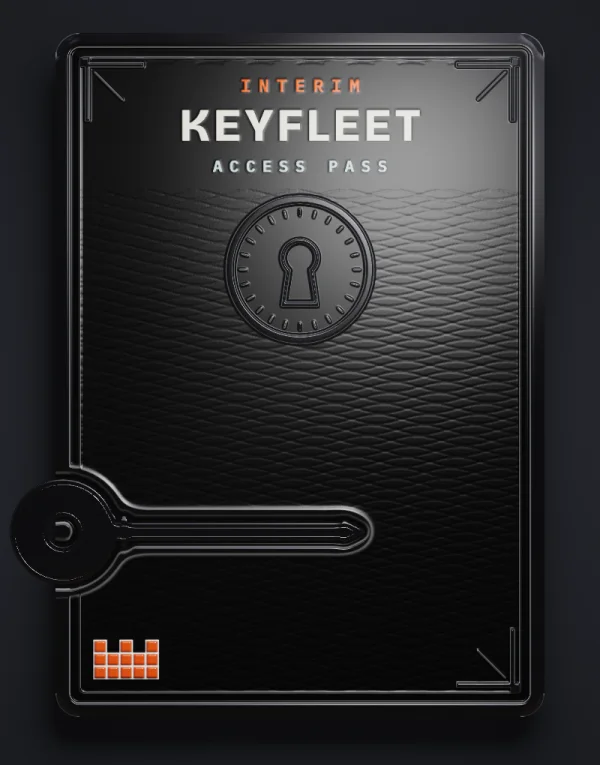
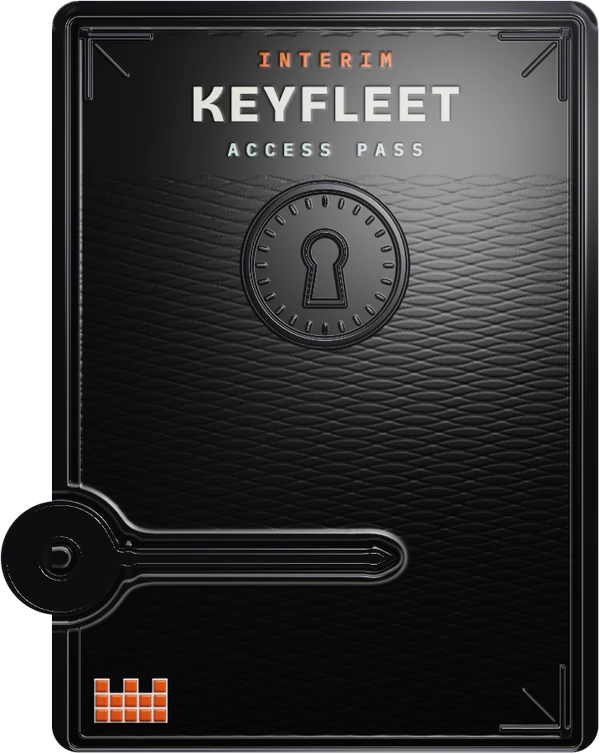
Show the homepage's next Key card without its dark backdrop
The card picture is cut out of its studio backdrop, so the hex field shows
around its rounded corners and the Key's head. The card panel's charcoal
fill and cut corners go, and the price tag moves beside the crown.

diff --git a/platform/assets/css/pages/home.css b/platform/assets/css/pages/home.css
@@ -54,17 +54,17 @@
   /* "Buy Next Key": the next Key's card over the button that names it and its
      price, and under them a line kept for the reason it can't be pressed. */
   .rl-buy { grid-area: buy; display: grid; gap: var(--space-2); justify-self: center; inline-size: min(100%, 22rem); }
-  .rl-buy__card { position: relative; aspect-ratio: 600 / 765; perspective: 60rem; }
-  .rl-buy__tilt {
-    position: absolute; inset: 0;
-    clip-path: polygon(var(--rg-cut-panel) 0, 100% 0, 100% calc(100% - var(--rg-cut-panel)), calc(100% - var(--rg-cut-panel)) 100%, 0 100%, 0 var(--rg-cut-panel));
-    background: var(--palette-charcoal);
-  }
-  .rl-buy__tilt img { display: block; inline-size: 100%; block-size: 100%; object-fit: cover; }
-  /* The price on the card itself, in its corner. The card's art is dark in
-     both themes, so the tag keeps light ink on charcoal in both. */
+  /* The card's picture is cut out of its backdrop, so the page shows around
+     its rounded corners and the Key's head on its left side. */
+  .rl-buy__card { position: relative; aspect-ratio: 600 / 754; perspective: 60rem; }
+  .rl-buy__tilt { position: absolute; inset: 0; }
+  .rl-buy__tilt img { display: block; inline-size: 100%; block-size: 100%; object-fit: contain; }
+  /* The price on the card itself, beside the crown in its lower corner (the
+     crown ends 197 of the picture's 716 columns in and 40 of its 900 rows up).
+     The card's art is dark in both themes, so the tag keeps light ink on
+     charcoal in both. */
   .rl-buy__tag {
-    position: absolute; inset-inline-start: var(--space-2); inset-block-end: var(--space-2);
+    position: absolute; inset-inline-start: calc(197 / 716 * 100% + var(--space-2)); inset-block-end: calc(40 / 900 * 100%);
     padding: .25rem .5rem; background: rgb(22 22 22 / .82); color: var(--palette-platinum);
     font-family: var(--font-family-mono); font-size: .75rem; font-variant-numeric: tabular-nums;
     border: 1px solid rgb(229 227 210 / .18);
